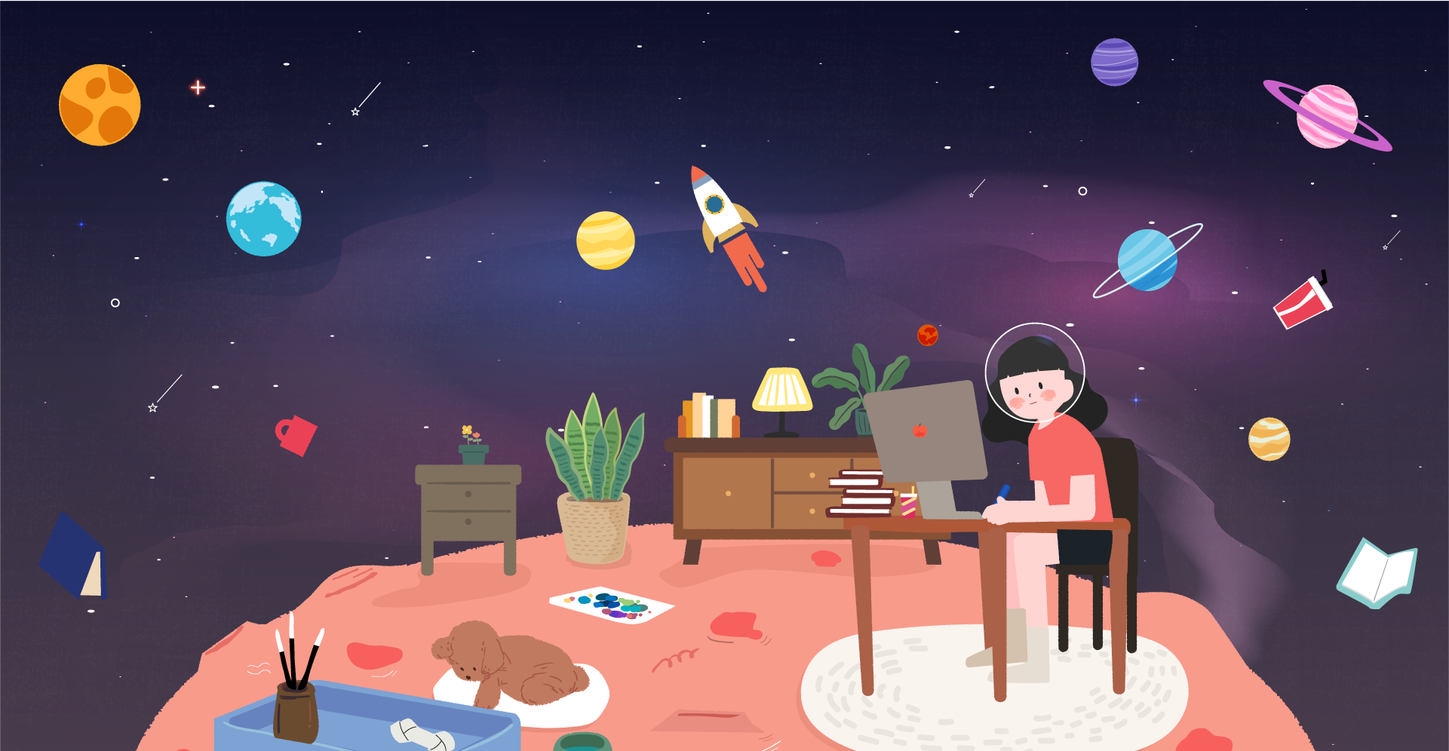
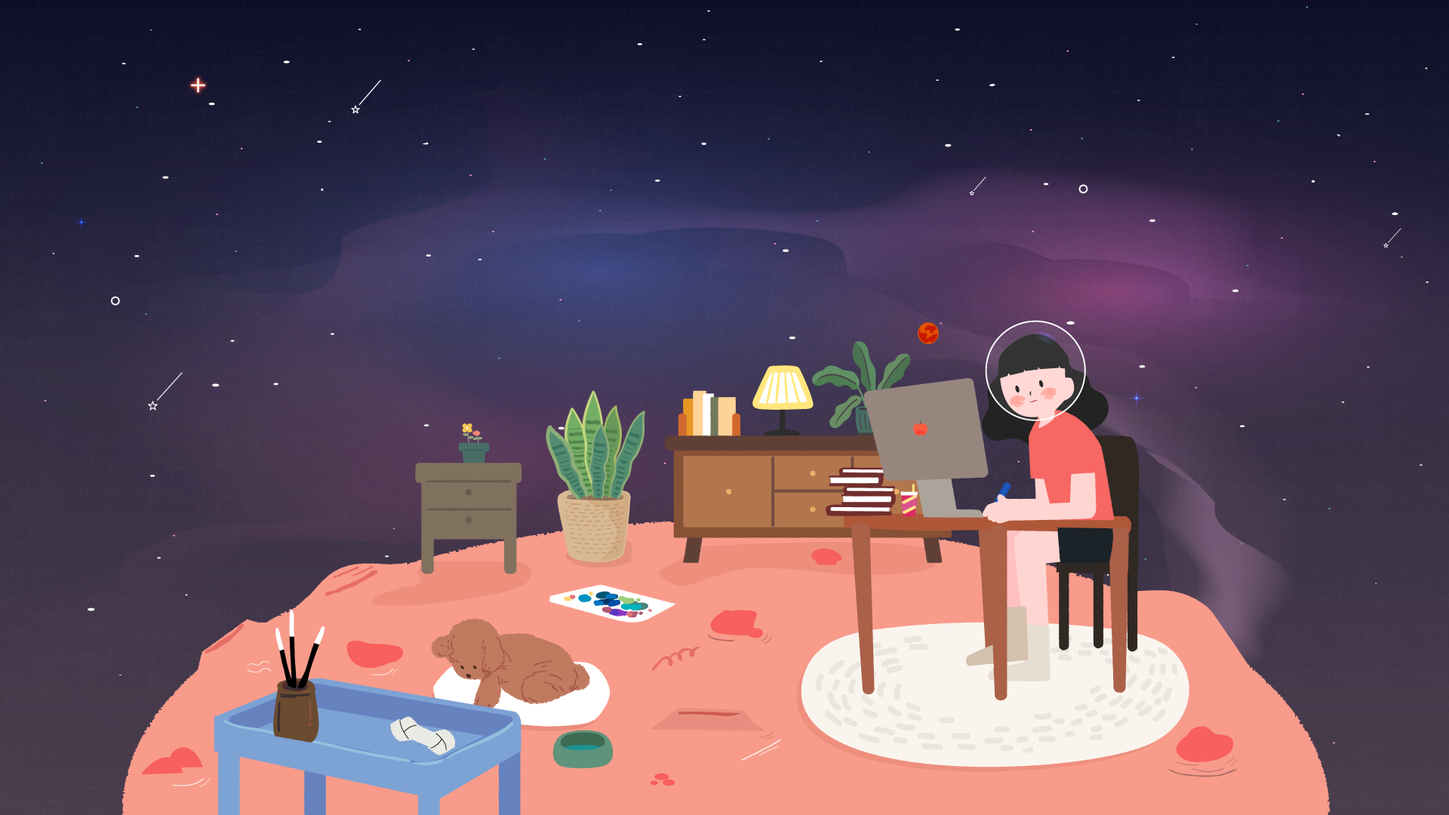
feat: 애니메이션

diff --git a/css/commons.css b/css/commons.css
@@ -1,1 +1,1 @@
-@import"//spoqa.github.io/spoqa-han-sans/css/SpoqaHanSans-kr.css";@import"https://fonts.googleapis.com/css2?family=Material+Symbols+Outlined:opsz,wght,FILL,GRAD@20..48,100..700,0..1,-50..200";html,body,div,span,applet,object,iframe,h1,h2,h3,h4,h5,h6,p,blockquote,pre,a,abbr,acronym,address,big,cite,code,del,dfn,em,img,ins,kbd,q,s,samp,small,strike,strong,sub,sup,tt,var,b,u,i,center,dl,dt,dd,ol,ul,li,fieldset,form,label,legend,table,caption,tbody,tfoot,thead,tr,th,td,article,aside,canvas,details,embed,figure,figcaption,footer,header,hgroup,menu,nav,output,ruby,section,summary,time,mark,audio,video{margin:0;padding:0;border:0;font-size:100%;font:inherit;vertical-align:baseline}article,aside,details,figcaption,figure,footer,header,hgroup,menu,nav,section{display:block}body{line-height:1}ol,ul{list-style:none}blockquote,q{quotes:none}progress{appearance:none}blockquote:before,blockquote:after{content:"";content:none}q:before,q:after{content:"";content:none}table{border-collapse:collapse;border-spacing:0}a{color:inherit;text-decoration:none}.blind{position:absolute;clip:rect(0 0 0 0);width:1px;height:1px;margin:-1px;overflow:hidden}img{max-width:100%}button{border:none;cursor:pointer}body{font-size:14px;font-family:"Spoqa Han Sans","Spoqa Han Sans JP","Sans-serif"}.header_wrap{position:fixed;top:0;left:0;width:100%;color:#fff;background-color:rgba(0,0,0,0);transition:background-color .4s;z-index:100}.header_wrap .inner{display:flex;justify-content:space-between;align-items:center;padding:0 40px;width:100%;max-width:1440px;height:70px;box-sizing:border-box;margin:0 auto}.header_wrap h1{background-image:url("../img/logo.png");background-repeat:no-repeat;display:flex;align-items:center;width:55px;height:35px}.header_wrap h1 span{position:absolute;clip:rect(0 0 0 0);width:1px;height:1px;margin:-1px;overflow:hidden}.header_wrap ul{font-size:12px;display:flex;justify-content:space-between;align-items:center;column-gap:30px}.header_wrap.fixed{background:rgba(49,49,49,.9)}.home{height:100vh;position:relative;background:url("../img/main.png") no-repeat center center/cover}.home .stars span{animation:twinkleStar 1s infinite alternate both}.home .stars span:nth-child(1){left:50px;top:100px;position:absolute;display:block;width:10px;height:10px;border-radius:50%;background-color:gold;box-shadow:0 0 13px rgba(255,215,0,.8)}.home .stars span:nth-child(2){position:absolute;display:block;width:5px;height:5px;border-radius:50%;background-color:#fff;box-shadow:0 0 13px rgba(255,255,255,.8);right:100px;top:300px;animation-delay:.5s}.home .stars span:nth-child(3){left:50%;top:120px;position:absolute;display:block;width:8px;height:8px;border-radius:50%;background-color:#30d3d3;box-shadow:0 0 13px rgba(48,211,211,.8)}.home .stars span:nth-child(4){left:150px;top:200px;position:absolute;display:block;width:10px;height:10px;border-radius:50%;background-color:gold;box-shadow:0 0 13px rgba(255,215,0,.8);animation-delay:.7s}.home .stars span:nth-child(5){position:absolute;display:block;width:5px;height:5px;border-radius:50%;background-color:#fff;box-shadow:0 0 13px rgba(255,255,255,.8);right:200px;top:250px;animation-delay:1.2s}.home .stars span:nth-child(6){left:50%;bottom:120px;animation-delay:.2s;position:absolute;display:block;width:8px;height:8px;border-radius:50%;background-color:#30d3d3;box-shadow:0 0 13px rgba(48,211,211,.8)}.home .circle{position:absolute;display:block;width:80px;height:80px;border-radius:50%;background-color:gold;box-shadow:0 0 13px rgba(255,215,0,.8);position:absolute;right:50%;top:200px;animation:moveUpDown .8s infinite linear alternate}@keyframes twinkleStar{0%{opacity:0}100%{opacity:1}}@keyframes moveUpDown{0%{transform:translateY(0)}100%{transform:translateY(-8px)}}.Profile{height:100vh;display:flex;justify-content:center;align-items:center;font-family:"Roboto",sans-serif;line-height:1.38}.Profile .inner{width:100%;max-width:1200px;height:620px;display:grid;grid-template-columns:440px auto;column-gap:30px}.Profile .title,.Profile .base,.Profile .contact,.Profile .photos .big{width:100%;max-width:440px}.Profile .title img,.Profile .base img,.Profile .contact img,.Profile .photos .big img{width:100%;height:620px}.Profile .info{display:flex;justify-content:space-between;flex-direction:column}.Profile h3{font-size:66px}.Profile dl{font-size:16px;display:grid;grid-template-columns:60px auto;column-gap:20px}.Profile ul{display:flex;justify-content:space-between;align-items:center;column-gap:18px}.Profile ul li a img{width:231px;height:188px}.gallery{height:100vh}.gallery .list{display:grid;grid-template-columns:repeat(5, 1fr)}.gallery .list li{position:relative;height:33.3333333333vh}.gallery .list li:nth-child(1){background:url("../img/g1.jpg ") no-repeat center center/cover}.gallery .list li:nth-child(2){background:url("../img/g2.jpg ") no-repeat center center/cover}.gallery .list li:nth-child(3){background:url("../img/g3.jpg ") no-repeat center center/cover}.gallery .list li:nth-child(4){background:url("../img/g4.jpg ") no-repeat center center/cover}.gallery .list li:nth-child(5){background:url("../img/g5.jpg ") no-repeat center center/cover}.gallery .list li:nth-child(6){background:url("../img/g6.jpg ") no-repeat center center/cover}.gallery .list li:nth-child(7){background:url("../img/g7.jpg ") no-repeat center center/cover}.gallery .list li:nth-child(8){background:url("../img/g8.jpg ") no-repeat center center/cover}.gallery .list li:nth-child(9){background:url("../img/g9.jpg ") no-repeat center center/cover}.gallery .list li:nth-child(10){background:url("../img/g10.jpg ") no-repeat center center/cover}.gallery .list li:nth-child(11){background:url("../img/g11.jpg ") no-repeat center center/cover}.gallery .list li:nth-child(12){background:url("../img/g12.jpg ") no-repeat center center/cover}.gallery .list li:nth-child(13){background:url("../img/g13.jpg ") no-repeat center center/cover}.gallery .list li:nth-child(14){background:url("../img/g14.jpg ") no-repeat center center/cover}.gallery .list li:nth-child(15){background:url("../img/g15.jpg ") no-repeat center center/cover}.gallery .list li:nth-child(1){background:url("../img/g1.jpg") no-repeat center center/cover}.gallery .list li .thumbnail{display:block;position:absolute;left:0;top:0;width:100%;height:100%;background-color:rgba(0,0,0,0);font-size:15px;transition:opacity .2s}.gallery .list li dl{opacity:0;position:absolute;left:0px;bottom:10px;width:100%;color:#fff;transition:.4s .1s;font-weight:bold;padding-left:20px;padding-top:50px;box-sizing:border-box}.gallery .list li dl dt{margin-bottom:2px;font-size:22px}.gallery .list li dl dd{width:100%;text-overflow:ellipsis;overflow:hidden;white-space:nowrap;margin:0}.gallery .list li:hover .thumbnail{background-color:rgba(0,0,0,.5)}.gallery .list li:hover .thumbnail dl{opacity:1}.modal-container{background-color:#222;padding:22px;position:fixed;width:576px;height:100vh;left:-600px;top:0;box-sizing:border-box;transition:left .4s}.modal-container .thumbs-container .thumbs{padding-bottom:15px}.modal-container .thumbs-container .contact-box{display:flex;justify-content:space-between;max-width:400px}.modal-container .thumbs-container h3{font-size:30px;color:#fff}.modal-container .thumbs-container p{color:rgba(255,255,255,.548);font-size:12px}.modal-container .contents dl{color:#eb4b4b;padding-top:34px;font-size:16px}.modal-container .contents p{padding-top:50px;color:#fff;font-size:14px;padding-bottom:22px}.modal-container .btn-close{width:34px;height:34px;border-radius:50%;background-color:#c71919;color:#fff;position:absolute;right:-54px;top:25px;text-align:center;line-height:34px;display:none;border-radius:50%;background-color:rgba(199,25,25,.5)}.modal-container .btn-close .material-symbols-outlined{line-height:inherit}.modal-cotents-img{display:flex;justify-content:space-between;align-items:center;column-gap:15px;width:50px}.dim{display:none;position:fixed;background-color:rgba(0,0,0,.5);top:0;left:0;right:0;bottom:0}.skills{height:100vh;display:flex;justify-content:center;align-items:center}.skills .inner{width:100%;max-width:1220px}.skills h2{font-size:64px;padding-bottom:74px}.skills ul{display:flex;flex-direction:column;gap:20px}.skills li{display:flex;justify-content:space-between;align-items:center;column-gap:40px}.skills li img{width:50px}.skills li strong:after{content:"%"}.skills li progress{flex-grow:1;height:22px;transition:.5}.skills li progress::-webkit-progress-bar{background:#d9d9d9;border-radius:20px}.skills li progress::-webkit-progress-value{border-radius:20px;transition-property:all;transition-duration:.4s}.skills li:nth-child(1) progress::-webkit-progress-value{background-color:#e85832;transition-delay:0}.skills li:nth-child(2) progress::-webkit-progress-value{background-color:#379ce2;transition-delay:.2s}.skills li:nth-child(3) progress::-webkit-progress-value{background-color:#e9ad39;transition-delay:.4s}.skills li:nth-child(4) progress::-webkit-progress-value{background-color:#cd63ad;transition-delay:.6s}.skills li:nth-child(5) progress::-webkit-progress-value{background-color:#1469aa;transition-delay:.8s}.contacts{height:100vh;display:flex;justify-content:center;align-items:center}.contacts h3{font-size:64px;margin-bottom:34px}.contacts .inner{display:flex;justify-content:space-between;align-items:center}.contacts .contacts-inner{margin:0 auto;width:630px}.contacts .contact-container .title,.contacts .contact-container .contents{width:100%;border:1px solid #e1e1e1;padding:10px;box-sizing:border-box}.contacts .contact-container .title:focus,.contacts .contact-container .contents:focus{background-color:#eee6f4}.contacts .contact-container .title{height:48px;border-radius:30px}.contacts .contact-container .contents{border-radius:15px;height:150px;margin:10px 0}.contacts .contact-container .btn-send{width:255px;height:52px;background:#8959c7;border-radius:30px;border:1px solid #e1e1e1;margin:0 auto;display:block}.contacts .contact-container .btn-send:hover{background:#3f2265}.contacts .contact-container .btn-send span{color:#fff;font-size:16px}.contacts .contact-result{display:none}/*# sourceMappingURL=commons.css.map */
+@import"//spoqa.github.io/spoqa-han-sans/css/SpoqaHanSans-kr.css";@import"https://fonts.googleapis.com/css2?family=Material+Symbols+Outlined:opsz,wght,FILL,GRAD@20..48,100..700,0..1,-50..200";html,body,div,span,applet,object,iframe,h1,h2,h3,h4,h5,h6,p,blockquote,pre,a,abbr,acronym,address,big,cite,code,del,dfn,em,img,ins,kbd,q,s,samp,small,strike,strong,sub,sup,tt,var,b,u,i,center,dl,dt,dd,ol,ul,li,fieldset,form,label,legend,table,caption,tbody,tfoot,thead,tr,th,td,article,aside,canvas,details,embed,figure,figcaption,footer,header,hgroup,menu,nav,output,ruby,section,summary,time,mark,audio,video{margin:0;padding:0;border:0;font-size:100%;font:inherit;vertical-align:baseline}article,aside,details,figcaption,figure,footer,header,hgroup,menu,nav,section{display:block}body{line-height:1}ol,ul{list-style:none}blockquote,q{quotes:none}progress{appearance:none}blockquote:before,blockquote:after{content:"";content:none}q:before,q:after{content:"";content:none}table{border-collapse:collapse;border-spacing:0}a{color:inherit;text-decoration:none}.blind{position:absolute;clip:rect(0 0 0 0);width:1px;height:1px;margin:-1px;overflow:hidden}img{max-width:100%}button{border:none;cursor:pointer}body{font-size:14px;font-family:"Spoqa Han Sans","Spoqa Han Sans JP","Sans-serif"}.header_wrap{position:fixed;top:0;left:0;width:100%;color:#fff;background-color:rgba(0,0,0,0);transition:background-color .4s;z-index:100}.header_wrap .inner{display:flex;justify-content:space-between;align-items:center;padding:0 40px;width:100%;max-width:1440px;height:70px;box-sizing:border-box;margin:0 auto}.header_wrap h1{background-image:url("../img/logo.png");background-repeat:no-repeat;display:flex;align-items:center;width:55px;height:35px}.header_wrap h1 span{position:absolute;clip:rect(0 0 0 0);width:1px;height:1px;margin:-1px;overflow:hidden}.header_wrap ul{font-size:12px;display:flex;justify-content:space-between;align-items:center;column-gap:30px}.header_wrap.fixed{background:rgba(49,49,49,.9)}.home{height:100vh;position:relative;background:url("../img/main.png") no-repeat center center/cover}.home .stars span{animation:twinkleStar 1s infinite alternate both}.home .stars span:nth-child(1){left:50px;top:100px;position:absolute;display:block;width:10px;height:10px;border-radius:50%;background-color:gold;box-shadow:0 0 13px rgba(255,215,0,.8)}.home .stars span:nth-child(2){position:absolute;display:block;width:5px;height:5px;border-radius:50%;background-color:#fff;box-shadow:0 0 13px rgba(255,255,255,.8);right:100px;top:300px;animation-delay:.5s}.home .stars span:nth-child(3){left:50%;top:120px;position:absolute;display:block;width:8px;height:8px;border-radius:50%;background-color:#30d3d3;box-shadow:0 0 13px rgba(48,211,211,.8)}.home .stars span:nth-child(4){left:150px;top:200px;position:absolute;display:block;width:10px;height:10px;border-radius:50%;background-color:gold;box-shadow:0 0 13px rgba(255,215,0,.8);animation-delay:.7s}.home .stars span:nth-child(5){position:absolute;display:block;width:5px;height:5px;border-radius:50%;background-color:#fff;box-shadow:0 0 13px rgba(255,255,255,.8);right:200px;top:250px;animation-delay:1.2s}.home .stars span:nth-child(6){left:50%;bottom:120px;animation-delay:.2s;position:absolute;display:block;width:8px;height:8px;border-radius:50%;background-color:#30d3d3;box-shadow:0 0 13px rgba(48,211,211,.8)}.home .stars span:nth-child(7){left:50%;bottom:120px;animation:moveleft .5s infinite linear alternate;background-image:url("../img/home11.png");left:472px;bottom:100px;width:60px;height:60px;background-repeat:no-repeat}.home .thing span{position:absolute;display:block}.home .thing span:nth-child(1){background-image:url("../img/home1.png");background-repeat:no-repeat;animation:moveUpDown .8s infinite linear alternate;left:472px;bottom:495px;width:60px;height:60px}.home .thing span:nth-child(2){background-image:url("../img/home2.png");background-repeat:no-repeat;animation:moveUpDown 1s infinite linear alternate;left:400px;bottom:745px;width:100px;height:100px}.home .thing span:nth-child(3){background-image:url("../img/home3.png");background-repeat:no-repeat;animation:moveUpDown .9s infinite linear alternate;left:900px;bottom:724px;width:100px;height:100px}.home .thing span:nth-child(4){background-image:url("../img/home4.png");background-repeat:no-repeat;animation:moveUpDown 1s infinite linear alternate;right:400px;bottom:800px;width:100px;height:100px}.home .thing span:nth-child(5){background-image:url("../img/home5.png");background-repeat:no-repeat;animation:moveUpDown 1.2s infinite linear alternate;right:100px;bottom:700px;width:170px;height:100px}.home .thing span:nth-child(6){background-image:url("../img/home6.png");background-repeat:no-repeat;animation:moveUpDown 1.5s infinite linear alternate;right:140px;bottom:500px;width:170px;height:100px}.home .thing span:nth-child(7){background-image:url("../img/home7.png");background-repeat:no-repeat;animation:moveUpDown 1.5s infinite linear alternate;right:40px;bottom:350px;width:170px;height:100px}.home .thing span:nth-child(8){background-image:url("../img/home8.png");background-repeat:no-repeat;animation:moveUpDown 1.5s infinite linear alternate;left:40px;bottom:350px;width:170px;height:170px}.home .thing span:nth-child(9){background-image:url("../img/home9.png");background-repeat:no-repeat;animation:moveUpDown 1.8s infinite linear alternate;right:40px;bottom:50px;width:170px;height:170px}.home .thing span:nth-child(10){background-image:url("../img/home10.png");background-repeat:no-repeat;animation:moveUpDown 1.8s infinite linear alternate;left:720px;bottom:600px;width:170px;height:170px}@keyframes twinkleStar{0%{opacity:0}100%{opacity:1}}@keyframes moveUpDown{0%{transform:translateY(0)}100%{transform:translateY(-8px)}}@keyframes moveleft{0%{transform:translateY(0)}100%{transform:translateX(-8px)}}.Profile{height:100vh;display:flex;justify-content:center;align-items:center;font-family:"Roboto",sans-serif;line-height:1.38}.Profile .inner{width:100%;max-width:1200px;height:620px;display:grid;grid-template-columns:440px auto;column-gap:30px}.Profile .title,.Profile .base,.Profile .contact,.Profile .photos .big{width:100%;max-width:440px}.Profile .title img,.Profile .base img,.Profile .contact img,.Profile .photos .big img{width:100%;height:620px}.Profile .info{display:flex;justify-content:space-between;flex-direction:column}.Profile h3{font-size:66px}.Profile dl{font-size:16px;display:grid;grid-template-columns:60px auto;column-gap:20px}.Profile ul{display:flex;justify-content:space-between;align-items:center;column-gap:18px}.Profile ul li a img{width:231px;height:188px}.gallery{height:100vh}.gallery .list{display:grid;grid-template-columns:repeat(5, 1fr)}.gallery .list li{position:relative;height:33.3333333333vh}.gallery .list li:nth-child(1){background:url("../img/g1.jpg ") no-repeat center center/cover}.gallery .list li:nth-child(2){background:url("../img/g2.jpg ") no-repeat center center/cover}.gallery .list li:nth-child(3){background:url("../img/g3.jpg ") no-repeat center center/cover}.gallery .list li:nth-child(4){background:url("../img/g4.jpg ") no-repeat center center/cover}.gallery .list li:nth-child(5){background:url("../img/g5.jpg ") no-repeat center center/cover}.gallery .list li:nth-child(6){background:url("../img/g6.jpg ") no-repeat center center/cover}.gallery .list li:nth-child(7){background:url("../img/g7.jpg ") no-repeat center center/cover}.gallery .list li:nth-child(8){background:url("../img/g8.jpg ") no-repeat center center/cover}.gallery .list li:nth-child(9){background:url("../img/g9.jpg ") no-repeat center center/cover}.gallery .list li:nth-child(10){background:url("../img/g10.jpg ") no-repeat center center/cover}.gallery .list li:nth-child(11){background:url("../img/g11.jpg ") no-repeat center center/cover}.gallery .list li:nth-child(12){background:url("../img/g12.jpg ") no-repeat center center/cover}.gallery .list li:nth-child(13){background:url("../img/g13.jpg ") no-repeat center center/cover}.gallery .list li:nth-child(14){background:url("../img/g14.jpg ") no-repeat center center/cover}.gallery .list li:nth-child(15){background:url("../img/g15.jpg ") no-repeat center center/cover}.gallery .list li:nth-child(1){background:url("../img/g1.jpg") no-repeat center center/cover}.gallery .list li .thumbnail{display:block;position:absolute;left:0;top:0;width:100%;height:100%;background-color:rgba(0,0,0,0);font-size:15px;transition:opacity .2s}.gallery .list li dl{opacity:0;position:absolute;left:0px;bottom:10px;width:100%;color:#fff;transition:.4s .1s;font-weight:bold;padding-left:20px;padding-top:50px;box-sizing:border-box}.gallery .list li dl dt{margin-bottom:2px;font-size:22px}.gallery .list li dl dd{width:100%;text-overflow:ellipsis;overflow:hidden;white-space:nowrap;margin:0}.gallery .list li:hover .thumbnail{background-color:rgba(0,0,0,.5)}.gallery .list li:hover .thumbnail dl{opacity:1}.modal-container{background-color:#222;padding:22px;position:fixed;width:576px;height:100vh;left:-600px;top:0;box-sizing:border-box;transition:left .4s}.modal-container .thumbs-container .thumbs{padding-bottom:15px}.modal-container .thumbs-container .contact-box{display:flex;justify-content:space-between;max-width:400px}.modal-container .thumbs-container h3{font-size:30px;color:#fff}.modal-container .thumbs-container p{color:rgba(255,255,255,.548);font-size:12px}.modal-container .contents dl{color:#eb4b4b;padding-top:34px;font-size:16px}.modal-container .contents p{padding-top:50px;color:#fff;font-size:14px;padding-bottom:22px}.modal-container .btn-close{width:34px;height:34px;border-radius:50%;background-color:#c71919;color:#fff;position:absolute;right:-54px;top:25px;text-align:center;line-height:34px;display:none;border-radius:50%;background-color:rgba(199,25,25,.5)}.modal-container .btn-close .material-symbols-outlined{line-height:inherit}.modal-cotents-img{display:flex;justify-content:space-between;align-items:center;column-gap:15px;width:50px}.dim{display:none;position:fixed;background-color:rgba(0,0,0,.5);top:0;left:0;right:0;bottom:0}.skills{height:100vh;display:flex;justify-content:center;align-items:center}.skills .inner{width:100%;max-width:1220px}.skills h2{font-size:64px;padding-bottom:74px}.skills ul{display:flex;flex-direction:column;gap:20px}.skills li{display:flex;justify-content:space-between;align-items:center;column-gap:40px}.skills li img{width:50px}.skills li strong:after{content:"%"}.skills li progress{flex-grow:1;height:22px;transition:.5}.skills li progress::-webkit-progress-bar{background:#d9d9d9;border-radius:20px}.skills li progress::-webkit-progress-value{border-radius:20px;transition-property:all;transition-duration:.4s}.skills li:nth-child(1) progress::-webkit-progress-value{background-color:#e85832;transition-delay:0}.skills li:nth-child(2) progress::-webkit-progress-value{background-color:#379ce2;transition-delay:.2s}.skills li:nth-child(3) progress::-webkit-progress-value{background-color:#e9ad39;transition-delay:.4s}.skills li:nth-child(4) progress::-webkit-progress-value{background-color:#cd63ad;transition-delay:.6s}.skills li:nth-child(5) progress::-webkit-progress-value{background-color:#1469aa;transition-delay:.8s}.contacts{height:100vh;display:flex;justify-content:center;align-items:center}.contacts h3{font-size:64px;margin-bottom:34px}.contacts .inner{display:flex;justify-content:space-between;align-items:center}.contacts .contacts-inner{margin:0 auto;width:630px}.contacts .contact-container .title,.contacts .contact-container .contents{width:100%;border:1px solid #e1e1e1;padding:10px;box-sizing:border-box}.contacts .contact-container .title:focus,.contacts .contact-container .contents:focus{background-color:#eee6f4}.contacts .contact-container .title{height:48px;border-radius:30px}.contacts .contact-container .contents{border-radius:15px;height:150px;margin:10px 0}.contacts .contact-container .btn-send{width:255px;height:52px;background:#8959c7;border-radius:30px;border:1px solid #e1e1e1;margin:0 auto;display:block}.contacts .contact-container .btn-send:hover{background:#3f2265}.contacts .contact-container .btn-send span{color:#fff;font-size:16px}.contacts .contact-result{display:none}/*# sourceMappingURL=commons.css.map */

diff --git a/scss/_home.scss b/scss/_home.scss
@@ -1,64 +1,190 @@
 .home {
-  height:100vh;
-  position:relative;
-  background:url($url + 'main.png') no-repeat center center/cover;
-
+  height: 100vh;
+  position: relative;
+  background: url($url + "main.png") no-repeat center center/cover;
 
   .stars {
     span {
-      animation:twinkleStar 1s infinite alternate both;
+      animation: twinkleStar 1s infinite alternate both;
     }
-     
+
     span:nth-child(1) {
-       left:50px;top:100px;
+      left: 50px;
+      top: 100px;
       @include star(10px, gold);
-     }
-     span:nth-child(2) {
+    }
+    span:nth-child(2) {
       @include star(5px);
-      right:100px;top:300px;
-      animation-delay:0.5s;
-     }
+      right: 100px;
+      top: 300px;
+      animation-delay: 0.5s;
+    }
 
-     span:nth-child(3) {
-      left:50%; top:120px;
-      @include star(8px, rgb(48, 211, 211)); 
-     }
+    span:nth-child(3) {
+      left: 50%;
+      top: 120px;
+      @include star(8px, rgb(48, 211, 211));
+    }
     span:nth-child(4) {
-       left:150px;top:200px;
+      left: 150px;
+      top: 200px;
       @include star(10px, gold);
-      animation-delay:0.7s;
-     }
-     span:nth-child(5) {
+      animation-delay: 0.7s;
+    }
+    span:nth-child(5) {
       @include star(5px);
-      right:200px;top:250px;
-      animation-delay:1.2s;
-     }
+      right: 200px;
+      top: 250px;
+      animation-delay: 1.2s;
+    }
 
-     span:nth-child(6) {
-      left:50%; bottom:120px;
-      animation-delay:0.2s;
-      @include star(8px, rgb(48, 211, 211)); 
-     }
+    span:nth-child(6) {
+      left: 50%;
+      bottom: 120px;
+      animation-delay: 0.2s;
+      @include star(8px, rgb(48, 211, 211));
+    }
+    span:nth-child(7) {
+      left: 50%;
+      bottom: 120px;
+      animation: moveleft 0.5s infinite linear alternate;
+      background-image: url($url + "home11.png");
+      left: 472px;
+      bottom: 100px;
+      width: 60px;
+      height: 60px;
+      background-repeat: no-repeat;
+    }
   }
-
-
-  .circle {
-    //  @include circle(80px, gold);
-    @include star(80px, gold);
-    position:absolute;
-    right:50%;
-    top:200px;
-    animation:moveUpDown 0.8s infinite linear alternate;
+  .thing {
+    span {
+      position: absolute;
+      display: block;
+    }
+    span:nth-child(1) {
+      background-image: url($url + "home1.png");
+      background-repeat: no-repeat;
+      animation: moveUpDown 0.8s infinite linear alternate;
+      left: 472px;
+      bottom: 495px;
+      width: 60px;
+      height: 60px;
+    }
+    span:nth-child(2) {
+      background-image: url($url + "home2.png");
+      background-repeat: no-repeat;
+      animation: moveUpDown 1s infinite linear alternate;
+      left: 400px;
+      bottom: 745px;
+      width: 100px;
+      height: 100px;
+    }
+    span:nth-child(3) {
+      background-image: url($url + "home3.png");
+      background-repeat: no-repeat;
+      animation: moveUpDown 0.9s infinite linear alternate;
+      left: 900px;
+      bottom: 724px;
+      width: 100px;
+      height: 100px;
+    }
+    span:nth-child(4) {
+      background-image: url($url + "home4.png");
+      background-repeat: no-repeat;
+      animation: moveUpDown 1s infinite linear alternate;
+      right: 400px;
+      bottom: 800px;
+      width: 100px;
+      height: 100px;
+    }
+    span:nth-child(5) {
+      background-image: url($url + "home5.png");
+      background-repeat: no-repeat;
+      animation: moveUpDown 1.2s infinite linear alternate;
+      right: 100px;
+      bottom: 700px;
+      width: 170px;
+      height: 100px;
+    }
+    span:nth-child(6) {
+      background-image: url($url + "home6.png");
+      background-repeat: no-repeat;
+      animation: moveUpDown 1.5s infinite linear alternate;
+      right: 140px;
+      bottom: 500px;
+      width: 170px;
+      height: 100px;
+    }
+    span:nth-child(7) {
+      background-image: url($url + "home7.png");
+      background-repeat: no-repeat;
+      animation: moveUpDown 1.5s infinite linear alternate;
+      right: 40px;
+      bottom: 350px;
+      width: 170px;
+      height: 100px;
+    }
+    span:nth-child(8) {
+      background-image: url($url + "home8.png");
+      background-repeat: no-repeat;
+      animation: moveUpDown 1.5s infinite linear alternate;
+      left: 40px;
+      bottom: 350px;
+      width: 170px;
+      height: 170px;
+    }
+    span:nth-child(9) {
+      background-image: url($url + "home9.png");
+      background-repeat: no-repeat;
+      animation: moveUpDown 1.8s infinite linear alternate;
+      right: 40px;
+      bottom: 50px;
+      width: 170px;
+      height: 170px;
+    }
+    span:nth-child(10) {
+      background-image: url($url + "home10.png");
+      background-repeat: no-repeat;
+      animation: moveUpDown 1.8s infinite linear alternate;
+      left: 720px;
+      bottom: 600px;
+      width: 170px;
+      height: 170px;
+    }
   }
+  // .circle {
+  //   //  @include circle(80px, gold);
+  //   @include star(80px, gold);
+  //   position: absolute;
+  //   right: 50%;
+  //   top: 200px;
+  //   animation: moveUpDown 0.8s infinite linear alternate;
+  // }
 }
 
 @keyframes twinkleStar {
-  0% { opacity:0;}
-  100% { opacity:1;} 
+  0% {
+    opacity: 0;
+  }
+  100% {
+    opacity: 1;
+  }
 }
 
-
 @keyframes moveUpDown {
-  0% { transform:translateY(0)}
-  100% { transform:translateY(-8px)}
+  0% {
+    transform: translateY(0);
+  }
+  100% {
+    transform: translateY(-8px);
+  }
+}
+
+@keyframes moveleft {
+  0% {
+    transform: translateY(0);
+  }
+  100% {
+    transform: translateX(-8px);
+  }
 }

diff --git a/index.html b/index.html
@@ -36,7 +36,21 @@
         <span class="star"></span>
         <span class="star"></span>
         <span class="star"></span>
-        <span class="star"></span> 
+        <span class="star"></span>
+        <span class="star"></span>
+      </div>
+      <div class="thing">
+        <span class="cap"></span>
+        <span class="planet"></span>
+        <span class="Planet"></span>
+        <span class="Planet"></span>
+        <span class="Planet"></span>
+        <span class="Planet"></span>
+        <span class="Planet"></span>
+        <span class="Planet"></span>
+        <span class="Planet"></span>
+        <span class="Planet"></span>
+        <span class="Planet"></span>
       </div>
       <div class="circle"></div>
     </section>
@@ -255,7 +269,7 @@
         </button>
       </div>
     </section>
-    
+
     <section class="skills">
       <div class="inner">
         <h2>Skills</h2>
